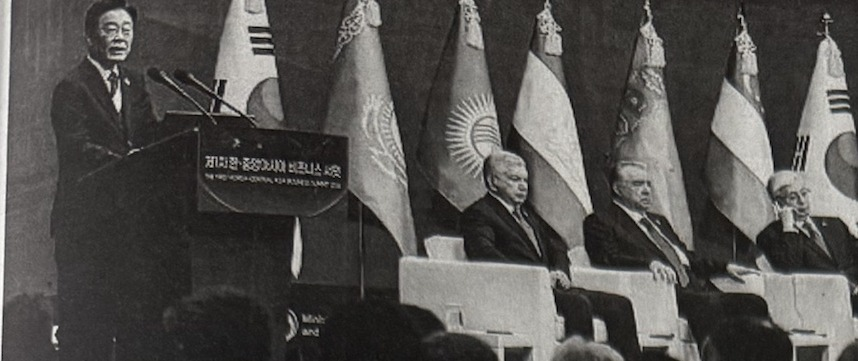
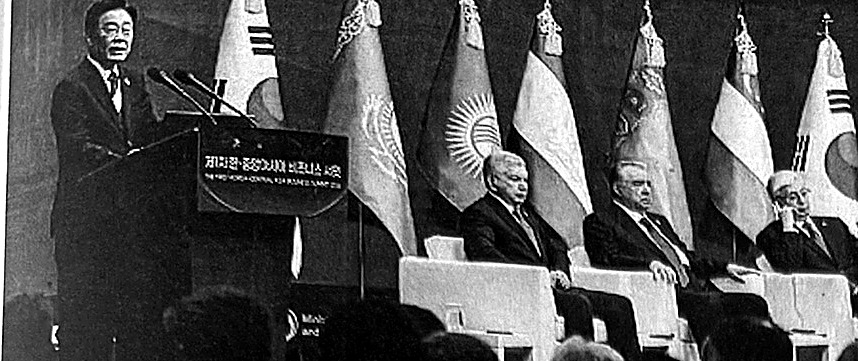
가독성 강화 + 사진 선명도·색감 보정
사진 처리:
- 전체 9장 모두 원본에서 재추출 후 오토컨트라스트+언샤프마스크
  적용 — 흐릿하던 톤을 깊은 블랙/밝은 화이트로 보정하고 윤곽을
  선명하게 처리
- 풀블리드로 쓰이는 1면·특집 메인 사진은 1.5~1.6배 업스케일 후
  샤프닝해 넓은 화면에서도 번지지 않도록 처리
- 광고 사진 중 가장 작던 '고기나라' 사진은 2.6배 업스케일+노이즈
  정리로 흐림 개선
- 사진 CSS 필터를 사전보정에 맞게 재조정(중복 대비 방지)

가독성:
- 1면 톱기사의 2단 컬럼 레이아웃 제거 — 좁은 폭에서 2단으로
  쪼개지면 한 줄에 20자 안팎으로 너무 빽빽해지던 문제를 단일
  컬럼으로 통일해 해결
- 본문 폰트 18px·행간 1.95로 확대, 경제기사·단신·광고·연락처
  목록 등 본문 텍스트 전반 1단계씩 확대
- 전역 행간 1.6→1.65

전 구간(320~1440px) 가로 스크롤 없음, 태그 구조 재검증 완료.

Claude-Session: https://claude.ai/code/session_01Ka5aoKhcN2pH5iqvEYVUu7

diff --git a/hanin-ilbo/index.html b/hanin-ilbo/index.html
@@ -50,7 +50,7 @@
   html{ scroll-behavior:smooth; }
   body{
     margin:0; background:var(--paper); color:var(--text);
-    font-family:var(--sans); font-size:16px; line-height:1.6;
+    font-family:var(--sans); font-size:16px; line-height:1.65;
     word-break:keep-all; -webkit-font-smoothing:antialiased; -moz-osx-font-smoothing:grayscale;
   }
   img{ max-width:100%; display:block; }
@@ -131,24 +131,23 @@
   }
   .hero-dek{ font-size:var(--fs-xl); color:var(--muted); font-weight:450; margin:0 0 20px; line-height:1.55; }
   .hero-photo{ margin:0 0 10px; }
-  .hero-photo img{ width:100%; height:auto; display:block; filter:grayscale(100%) sepia(8%) contrast(1.08) brightness(.98); }
+  .hero-photo img{ width:100%; height:auto; display:block; filter:grayscale(100%) sepia(10%) contrast(1.03) brightness(1.01); }
   .hero-photo.bleed{
     width:100vw; margin-left:calc(50% - 50vw); margin-right:calc(50% - 50vw);
   }
   .hero-photo.bleed img{ width:100%; height:min(58vh,540px); object-fit:cover; }
   .cap{ font-size:var(--fs-xs); color:var(--muted); padding:10px 2px 0; border-top:2px solid var(--ink); margin-bottom:32px; line-height:1.6; }
   .byline{ font-size:var(--fs-sm); color:var(--muted); margin-bottom:22px; padding-bottom:16px; border-bottom:1px solid var(--rule-light); }
-  .article-body{ columns:1; font-size:17px; line-height:1.9; color:var(--text); }
-  .article-body p{ margin:0 0 20px; }
+  .article-body{ font-size:18px; line-height:1.95; color:var(--text); }
+  .article-body p{ margin:0 0 22px; }
   .article-body p:first-of-type::first-letter{
     font-family:var(--serif); font-weight:800; font-size:3em; float:left; line-height:.82;
     padding:.05em .09em 0 0; color:var(--red-deep);
   }
-  @media(min-width:760px){ .article-body.cols2{ columns:2; column-gap:44px; } }
   .continued{ font-size:var(--fs-sm); color:var(--red); font-weight:700; margin-top:8px; }
 
   /* ---------- FEATURE (특집) ---------- */
-  .feature-sub{ font-size:var(--fs-md); color:var(--muted); margin:0 0 28px; line-height:1.75; }
+  .feature-sub{ font-size:var(--fs-lg); color:var(--muted); margin:0 0 28px; line-height:1.8; }
   .feature-sub span{ display:block; }
   .feature-grid{ display:grid; grid-template-columns:minmax(0,1fr); gap:36px; }
   @media(min-width:880px){ .feature-grid{ grid-template-columns:minmax(0,2fr) minmax(0,1fr); } }
@@ -160,13 +159,13 @@
     background:var(--paper-2); border:1px solid var(--rule-light); padding:24px 26px; margin-bottom:16px;
   }
   .contact-card h4{ font-family:var(--serif); font-size:var(--fs-md); margin:0 0 12px; color:var(--ink); }
-  .contact-card ul{ margin:0; padding-left:0; list-style:none; font-size:var(--fs-sm); color:var(--text); }
+  .contact-card ul{ margin:0; padding-left:0; list-style:none; font-size:var(--fs-base); color:var(--text); }
   .contact-card li{ margin-bottom:9px; line-height:1.6; }
   .contact-card b{ color:var(--ink); font-weight:700; }
 
   /* ---------- OPINION / COLUMN ---------- */
   .author-box{ display:flex; align-items:center; gap:16px; margin-bottom:22px; }
-  .author-box img{ width:60px; height:60px; object-fit:cover; border-radius:50%; filter:grayscale(100%) sepia(8%) contrast(1.08) brightness(.98); border:2px solid var(--ink); }
+  .author-box img{ width:60px; height:60px; object-fit:cover; border-radius:50%; filter:grayscale(100%) sepia(10%) contrast(1.03) brightness(1.01); border:2px solid var(--ink); }
   .author-box .name{ font-weight:700; color:var(--ink); font-size:var(--fs-md); }
   .author-box .role{ font-size:var(--fs-xs); color:var(--muted); margin-top:2px; }
   /* ---------- NEWS CARDS (경제 등) ---------- */
@@ -175,7 +174,7 @@
   .news-card{ border-top:3px solid var(--ink); padding-top:18px; }
   .news-card h3{ font-family:var(--serif); font-size:var(--fs-2xl); line-height:1.4; margin:0 0 8px; color:var(--ink); text-wrap:balance; }
   .news-card .dek{ font-size:var(--fs-sm); color:var(--red-deep); font-weight:700; margin-bottom:12px; line-height:1.6; }
-  .news-card p{ font-size:var(--fs-md); margin:0 0 14px; color:var(--text); line-height:1.75; }
+  .news-card p{ font-size:var(--fs-lg); margin:0 0 14px; color:var(--text); line-height:1.8; }
 
   /* ---------- BRIEFS (단신) ---------- */
   .brief-grid{ display:grid; grid-template-columns:minmax(0,1fr); gap:1px; background:var(--rule-light); border:1px solid var(--rule-light); }
@@ -183,7 +182,7 @@
   .brief{ background:var(--paper); padding:24px 26px; }
   .brief .tag{ display:inline-block; font-size:var(--fs-2xs); font-weight:700; color:var(--red); letter-spacing:.08em; margin-bottom:8px; text-transform:uppercase; }
   .brief h4{ font-family:var(--serif); font-size:var(--fs-lg); margin:0 0 10px; color:var(--ink); line-height:1.45; }
-  .brief p{ font-size:var(--fs-base); color:var(--text); margin:0; line-height:1.7; }
+  .brief p{ font-size:var(--fs-md); color:var(--text); margin:0; line-height:1.75; }
 
   /* ---------- LIFE INFO (생활정보) ---------- */
   .info-grid{ display:grid; grid-template-columns:minmax(0,1fr); gap:20px; }
@@ -196,7 +195,7 @@
   table.fx{ width:100%; font-size:var(--fs-base); border-collapse:collapse; }
   table.fx td{ padding:8px 2px; border-bottom:1px dashed var(--rule-light); }
   table.fx td:last-child{ text-align:right; font-weight:700; }
-  .info-card ul{ margin:0; padding-left:0; list-style:none; font-size:var(--fs-sm); }
+  .info-card ul{ margin:0; padding-left:0; list-style:none; font-size:var(--fs-base); }
   .info-card li{ margin-bottom:10px; line-height:1.6; }
   .info-card b{ display:block; color:var(--ink); margin-bottom:1px; }
 
@@ -212,13 +211,13 @@
   @media(min-width:1040px){ .ad-card.wide{ grid-column:span 2; } }
   .ad-card{ border:1px solid var(--rule-light); background:#fff; padding:20px 22px; box-shadow:var(--shadow-sm); }
   .ad-photo{ margin:-20px -22px 16px; overflow:hidden; }
-  .ad-photo img{ width:100%; height:130px; object-fit:cover; filter:grayscale(100%) sepia(8%) contrast(1.08) brightness(.98); }
+  .ad-photo img{ width:100%; height:130px; object-fit:cover; filter:grayscale(100%) sepia(10%) contrast(1.03) brightness(1.01); }
   table.staff{ width:100%; table-layout:fixed; border-collapse:collapse; font-size:var(--fs-xs); margin:12px 0; }
   table.staff th, table.staff td{ padding:6px 7px; text-align:left; border-bottom:1px dashed var(--rule-light); overflow-wrap:anywhere; }
   table.staff th{ color:var(--muted); font-weight:600; }
   .ad-card h4{ font-family:var(--serif); font-size:var(--fs-lg); margin:0 0 5px; color:var(--ink); }
   .ad-card .tagline{ font-size:var(--fs-xs); color:var(--red-deep); font-weight:700; margin-bottom:12px; }
-  .ad-card p{ font-size:var(--fs-sm); color:var(--text); margin:0 0 10px; line-height:1.65; }
+  .ad-card p{ font-size:var(--fs-base); color:var(--text); margin:0 0 10px; line-height:1.7; }
   .ad-card .contact{ font-size:var(--fs-xs); color:var(--muted); border-top:1px dashed var(--rule-light); padding-top:10px; margin-top:12px; line-height:1.6; }
   .ad-card.feature-ad{ background:var(--ink); color:#E4DFCF; }
   .ad-card.feature-ad h4{ color:#fff; }
@@ -293,7 +292,7 @@
       <p class="cap">현대차그룹, 카자흐스탄 기업과 알라타우 시티 사업 추진 협약 체결 [현대차그룹 제공] · 한·중앙아시아 비즈니스 업무협약 체결식(2026.9.16, 서울)</p>
       <div class="byline">(서울=연합뉴스) 김윤구 기자 · ykim@yna.co.kr</div>
 
-      <div class="article-body cols2">
+      <div class="article-body">
         <p>현대차그룹이 카자흐스탄 최대 규모 신도시 개발사업에 참여해 피지컬 인공지능(AI) 기반 미래도시 사업을 모색한다.</p>
         <p>현대차그룹은 지난 16일 제1차 한·중앙아시아 비즈니스 서밋에서 카자흐스탄 민간 투자기업 카스피안 그룹, 금융·투자기업 유나이티드 그룹 알라타우와 시티 프로젝트 추진을 위한 협약을 체결했다고 17일 밝혔다.</p>
         <p>협약식에는 서강현 현대차그룹 기획조정담당 사장, 최유리 카스피안 그룹 회장, 비야체슬라프 킴 유나이티드 그룹 알라타우 회장 등이 참석했다.</p>
